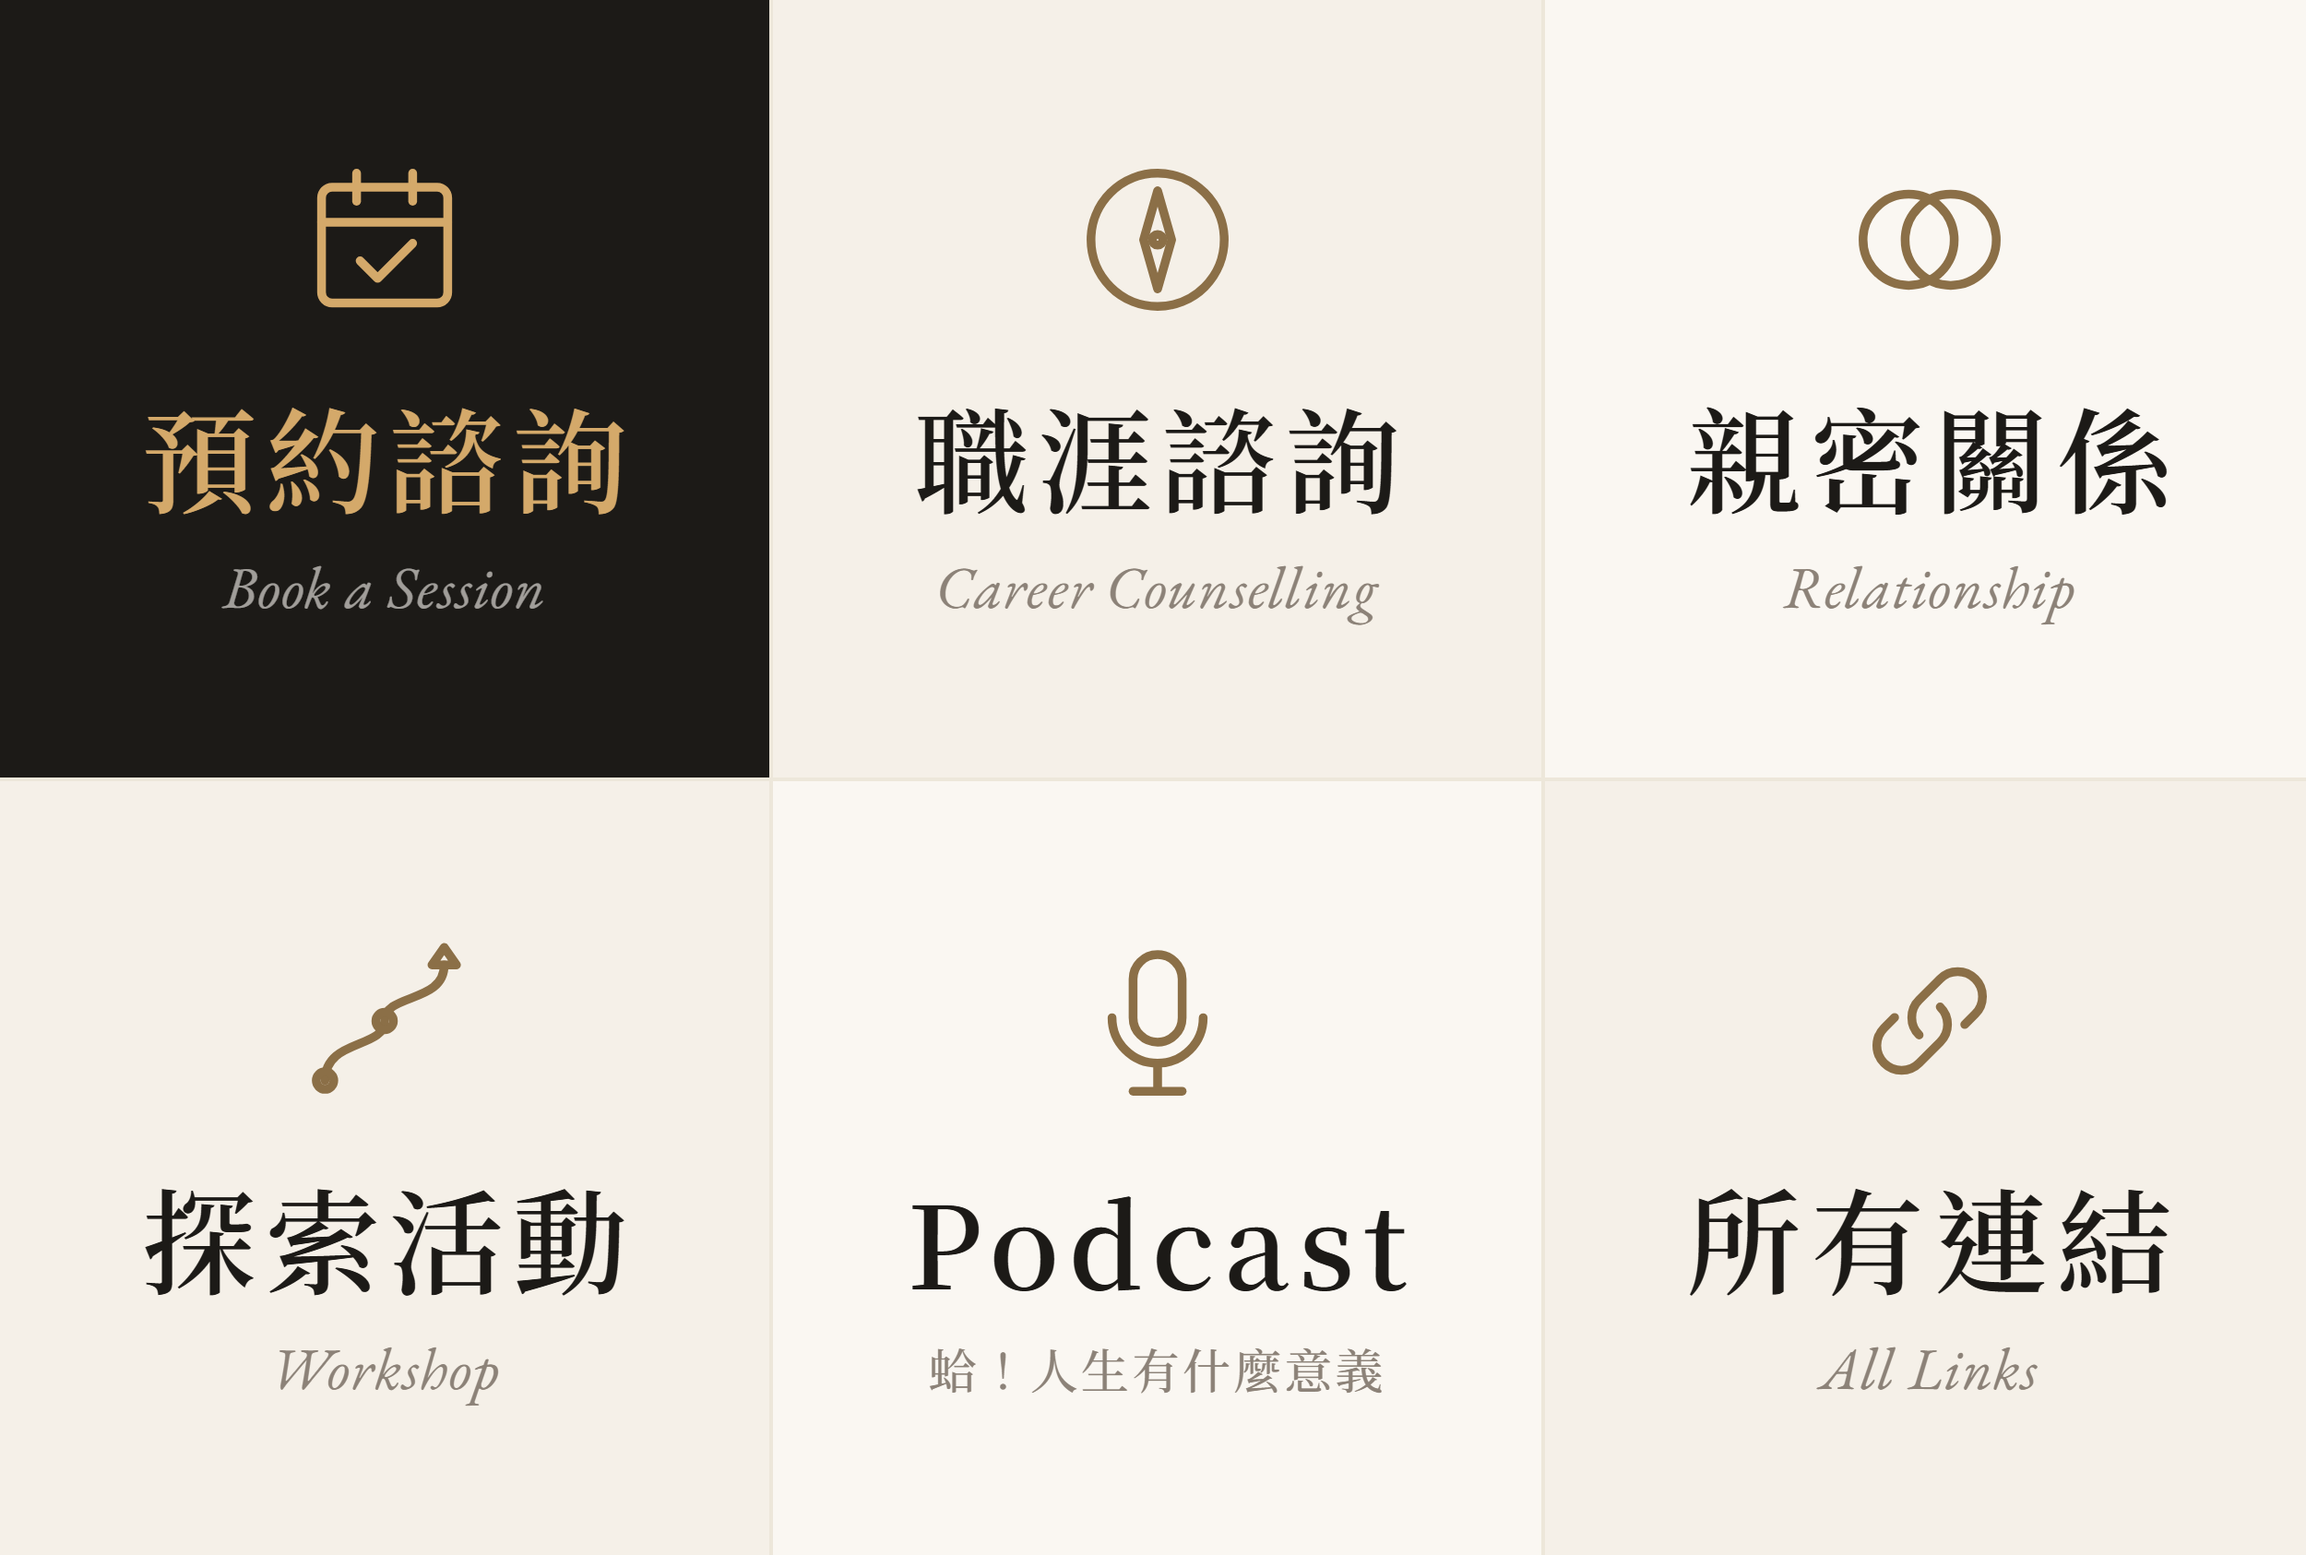
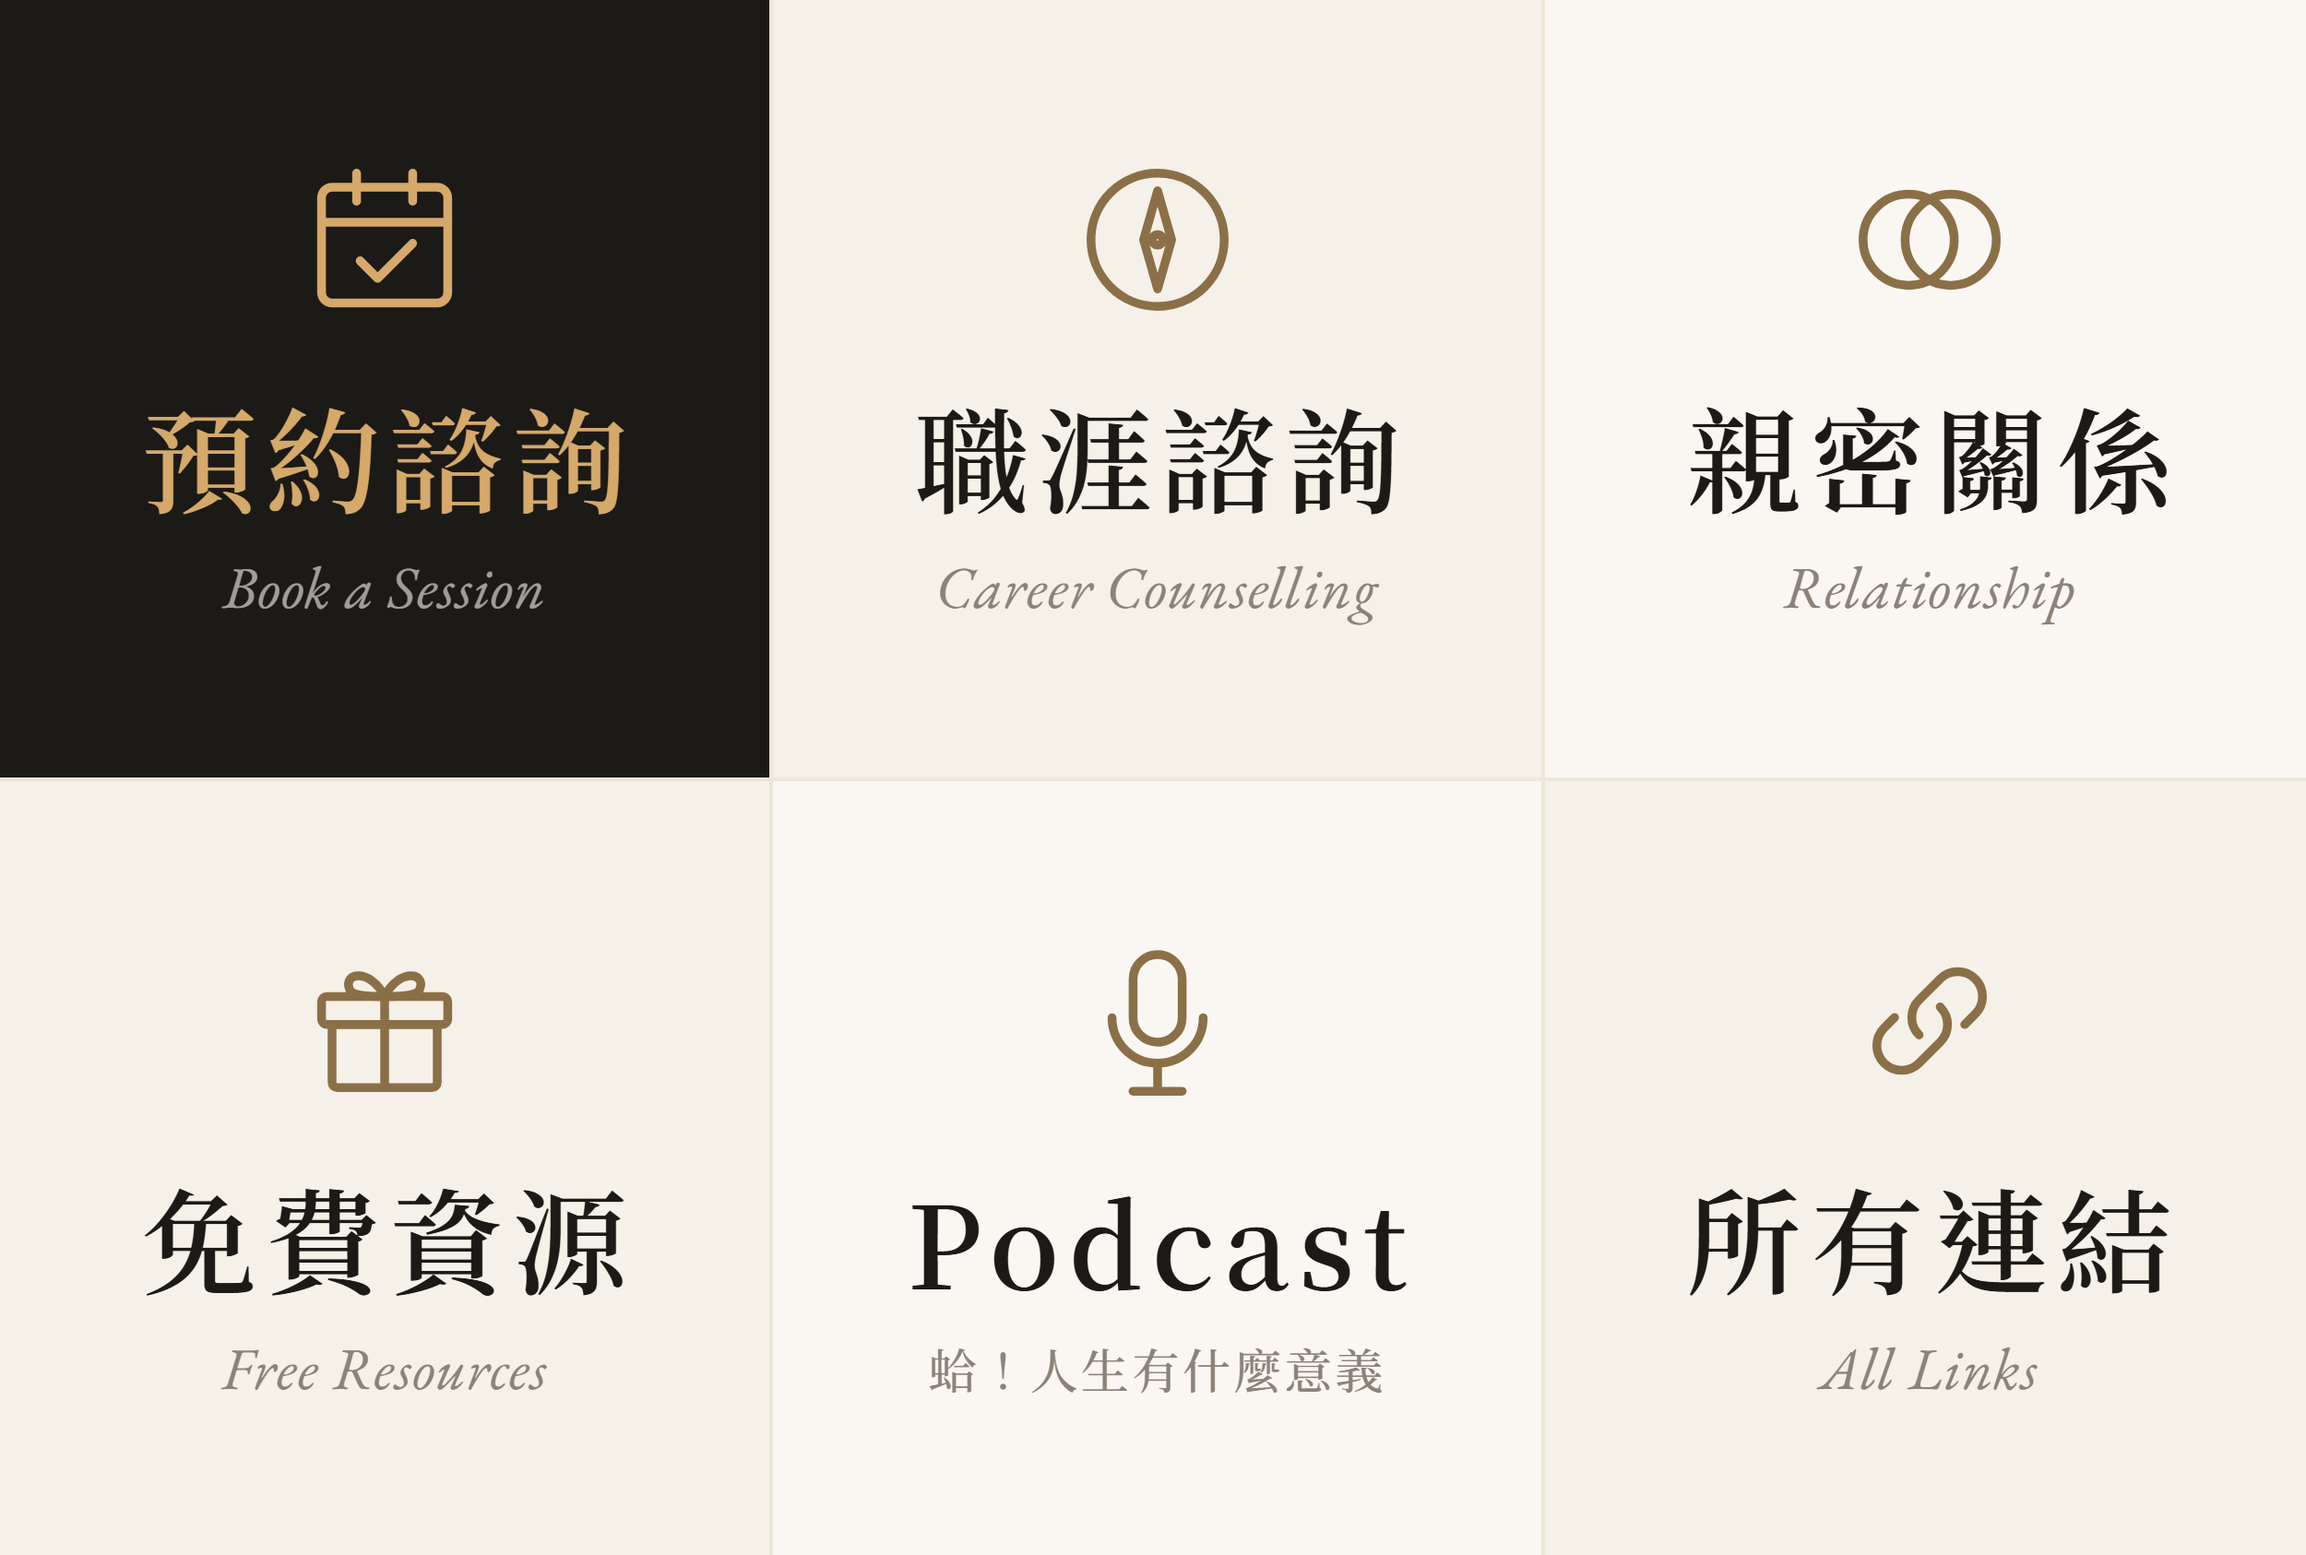
Rename rich menu workshop cell to free resources
Swap the 探索活動 / Workshop cell for 免費資源 / Free Resources with a
gift icon, and re-export the 2500x1686 PNG.

Changed region(s): [[0.0624, 0.7402, 0.2808, 0.8327], [0.1248, 0.6168, 0.2184, 0.7094], [0.0936, 0.8636, 0.2496, 0.8944]]

diff --git a/images/line-richmenu/richmenu-source.html b/images/line-richmenu/richmenu-source.html
@@ -125,16 +125,17 @@
       <p class="sub">Relationship</p>
     </section>
 
-    <!-- D：生涯探索活動 -->
+    <!-- D：免費資源 -->
     <section class="cell">
       <svg class="icon" viewBox="0 0 100 100" aria-hidden="true">
-        <path d="M16 84 C 16 60, 50 66, 50 50 S 84 40, 84 18"/>
-        <circle cx="16" cy="84" r="5"/>
-        <circle cx="50" cy="50" r="5"/>
-        <path d="M84 8 l7 10 h-14 z"/>
+        <rect x="14" y="36" width="72" height="16" rx="3"/>
+        <rect x="20" y="52" width="60" height="36" rx="3"/>
+        <line x1="50" y1="36" x2="50" y2="88"/>
+        <path d="M50 36 C 42 20, 26 22, 30 32 C 32 36, 42 36, 50 36"/>
+        <path d="M50 36 C 58 20, 74 22, 70 32 C 68 36, 58 36, 50 36"/>
       </svg>
-      <h2 class="title">探索活動</h2>
-      <p class="sub">Workshop</p>
+      <h2 class="title">免費資源</h2>
+      <p class="sub">Free Resources</p>
     </section>
 
     <!-- E：Podcast -->
